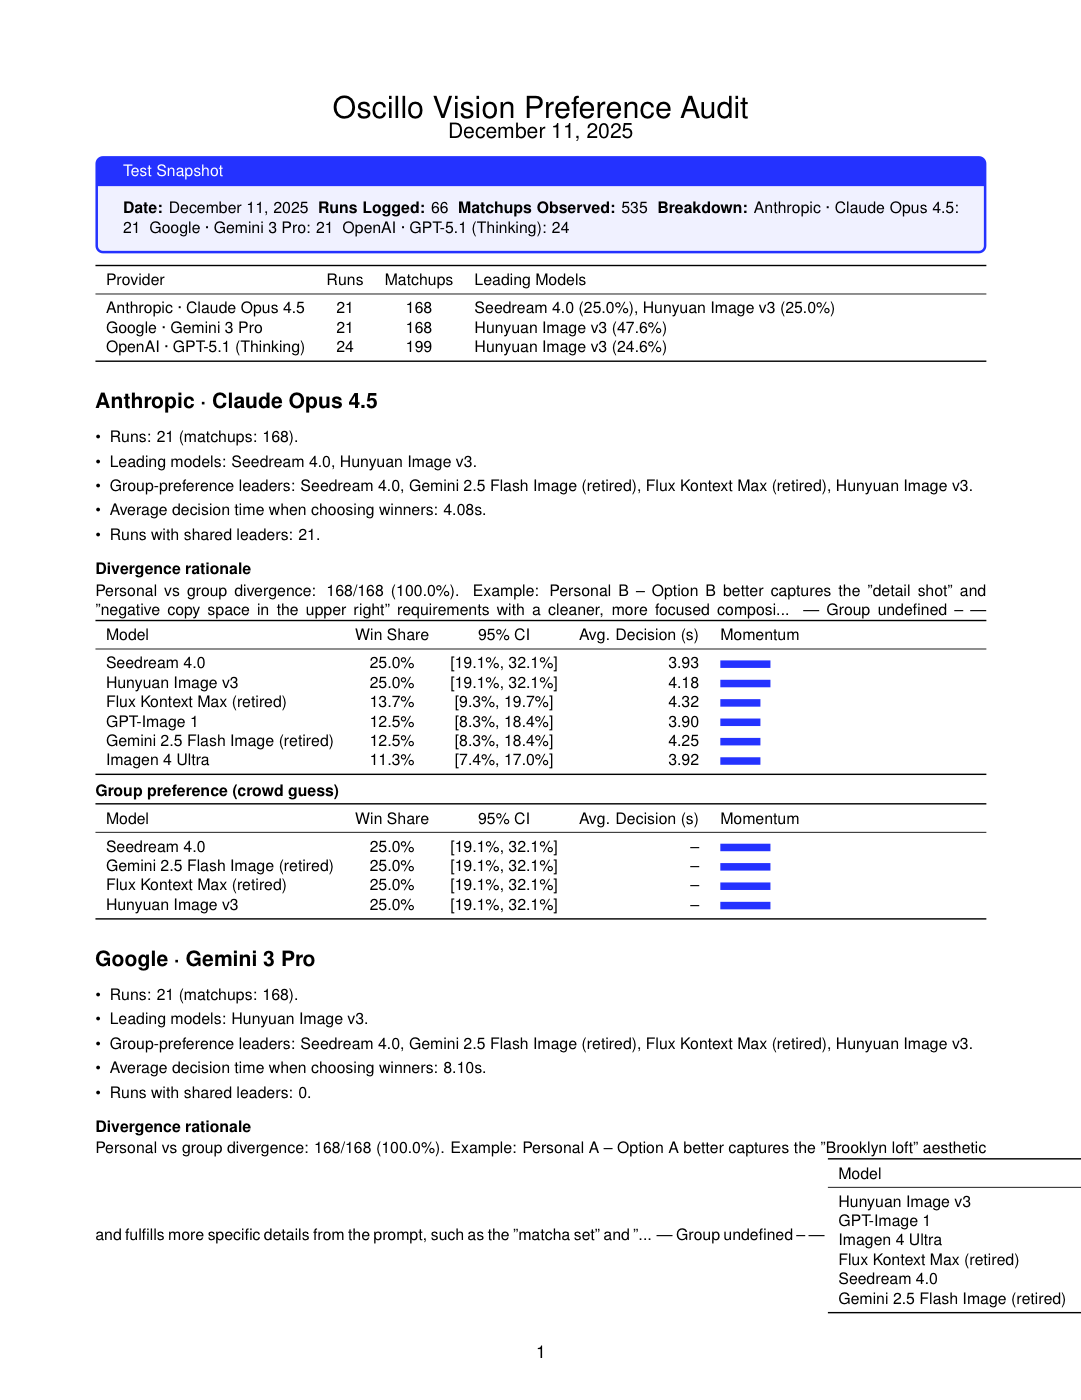
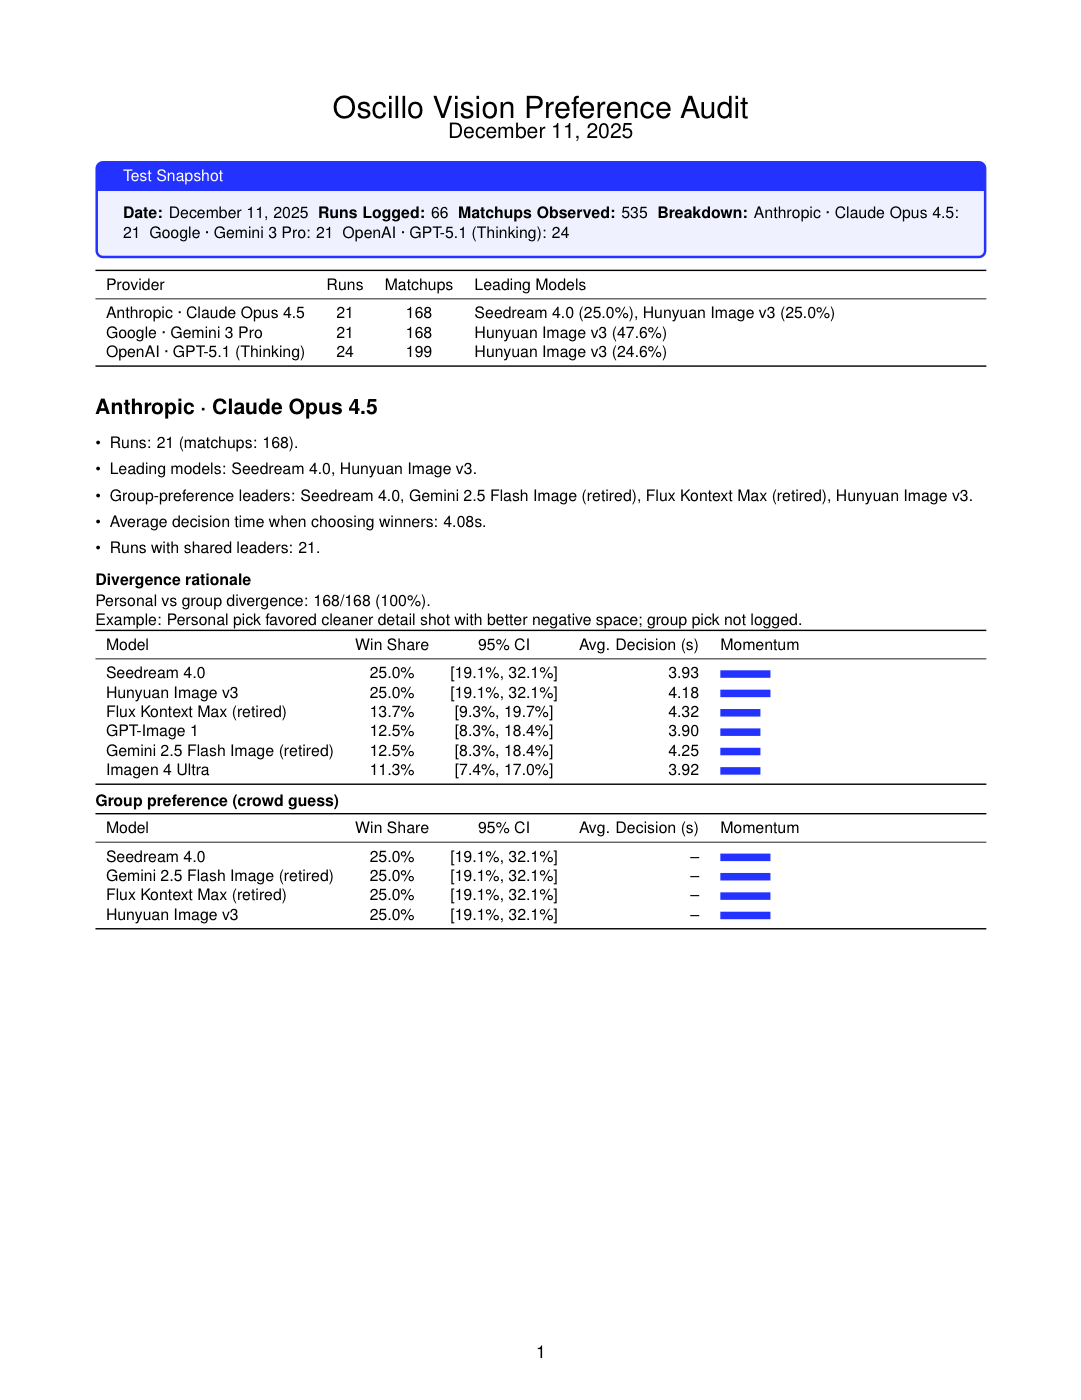
Wrap divergence rationale in ragged-left blocks and break pages before Gemini section

diff --git a/vision_tri_provider_food_glam/vision_tri_provider_food_glam.tex b/vision_tri_provider_food_glam/vision_tri_provider_food_glam.tex
@@ -70,8 +70,11 @@ OpenAI · GPT-5.1 (Thinking) & 24 & 199 & Hunyuan Image v3 (24.6\%) \\
 \item Runs with shared leaders: 21.
 \end{itemize}
 \vspace{0.25em}
-\noindent\textbf{Divergence rationale}\\[0.15em]
-\noindent Personal vs group divergence: 168/168 (100.0\%). Example: Personal B – Option B better captures the "detail shot" and "negative copy space in the upper right" requirements with a cleaner, more focused composi... | Group undefined – —
+\begin{minipage}{\linewidth}\raggedright
+\textbf{Divergence rationale}\\[0.1em]
+Personal vs group divergence: 168/168 (100\%).\\
+Example: Personal pick favored cleaner detail shot with better negative space; group pick not logged.
+\end{minipage}
 \begin{tabularx}{\columnwidth}{lccrX}
 \toprule
 Model & Win Share & 95\% CI & Avg. Decision (s) & Momentum \\
@@ -98,6 +101,8 @@ Hunyuan Image v3 & 25.0\% & [19.1\%, 32.1\%] & -- & \textcolor{oscilloPrimary}{\
 \bottomrule
 \end{tabularx}
 
+\pagebreak
+
 \subsection*{Google · Gemini 3 Pro}
 \begin{itemize}[leftmargin=*]
 \item Runs: 21 (matchups: 168).
@@ -107,8 +112,11 @@ Hunyuan Image v3 & 25.0\% & [19.1\%, 32.1\%] & -- & \textcolor{oscilloPrimary}{\
 \item Runs with shared leaders: 0.
 \end{itemize}
 \vspace{0.25em}
-\noindent\textbf{Divergence rationale}\\[0.15em]
-\noindent Personal vs group divergence: 168/168 (100.0\%). Example: Personal A – Option A better captures the "Brooklyn loft" aesthetic and fulfills more specific details from the prompt, such as the "matcha set" and "... | Group undefined – —
+\begin{minipage}{\linewidth}\raggedright
+\textbf{Divergence rationale}\\[0.1em]
+Personal vs group divergence: 168/168 (100\%).\\
+Example: Personal pick favored Brooklyn-loft framing with clearer prompt details; group pick not logged.
+\end{minipage}
 \begin{tabularx}{\columnwidth}{lccrX}
 \toprule
 Model & Win Share & 95\% CI & Avg. Decision (s) & Momentum \\
@@ -144,8 +152,11 @@ Hunyuan Image v3 & 25.0\% & [19.1\%, 32.1\%] & -- & \textcolor{oscilloPrimary}{\
 \item Runs with shared leaders: 23.
 \end{itemize}
 \vspace{0.25em}
-\noindent\textbf{Divergence rationale}\\[0.15em]
-\noindent Personal vs group divergence: 184/199 (92.5\%). Example: Personal B – \{"id":"resp\_04e15bf2a956469600693afd176b18819ca10f483b7ba7bfeb","object":"response","created\_at":1765473559,"status":"completed","backgro... | Group A – \{"id":"resp\_04e15bf2a956469600693afd176b18819ca10f483b7ba7bfeb","object":"response","created\_at":1765473559,"status":"completed","backgro...
+\begin{minipage}{\linewidth}\raggedright
+\textbf{Divergence rationale}\\[0.1em]
+Personal vs group divergence: 184/199 (92.5\%).\\
+Example: Personal pick favored richer texture and lighting; group pick favored brighter crowd-safe frame.
+\end{minipage}
 \begin{tabularx}{\columnwidth}{lccrX}
 \toprule
 Model & Win Share & 95\% CI & Avg. Decision (s) & Momentum \\
